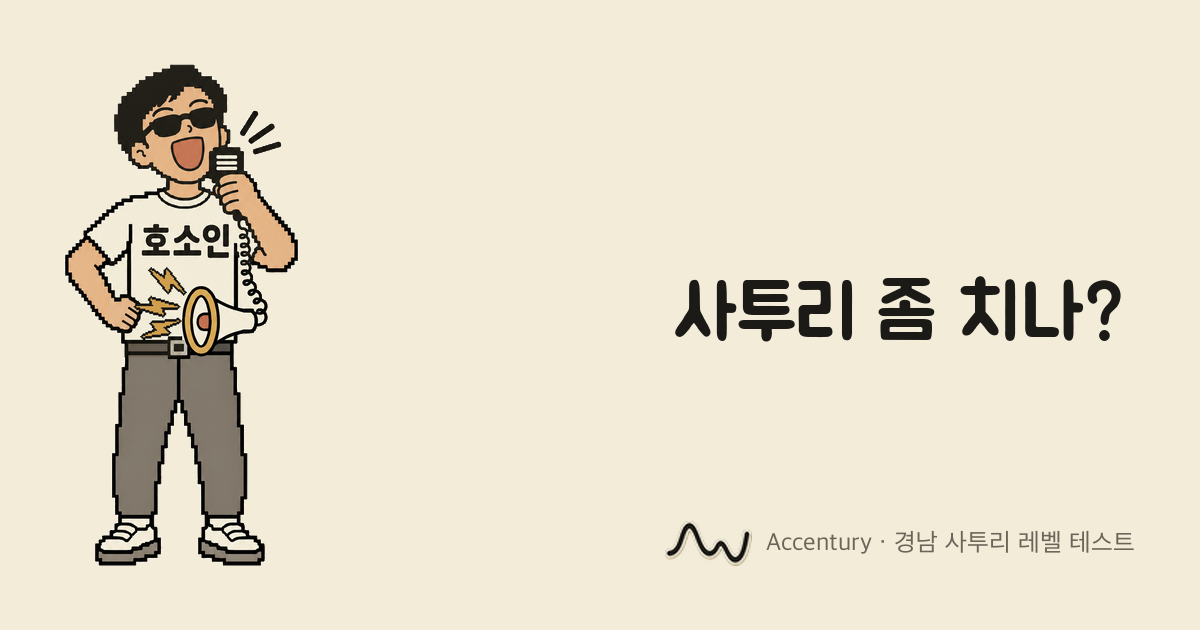
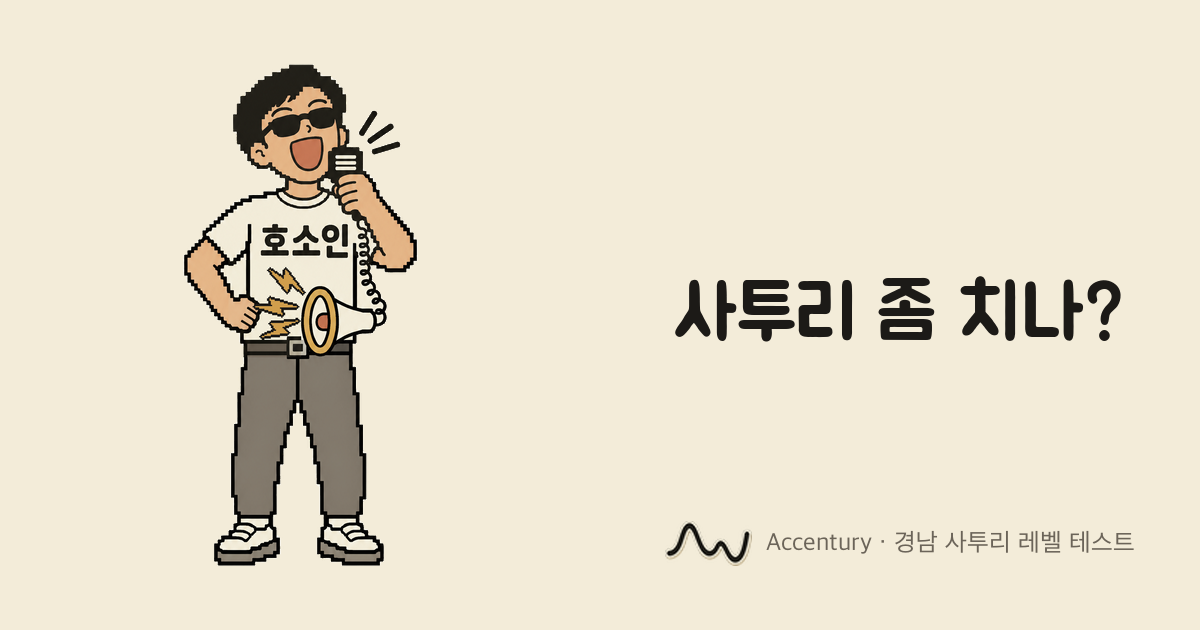
KAN-325 링크 미리보기 호소인을 왼쪽 절반 가운데로 정렬

Changed region(s): [[0.0308, 0.0905, 0.37, 0.9048]]

diff --git a/assets/web/build.py b/assets/web/build.py
@@ -177,7 +177,7 @@ def draw_og(cut: Image.Image) -> Image.Image:
 
     fig = cut.crop(cut.getbbox())
     fig = icon.fit(fig, OG_W * OG_FIGURE_W, OG_H - 2 * OG_PAD)
-    card.alpha_composite(fig, (OG_PAD, (OG_H - fig.height) // 2))
+    card.alpha_composite(fig, (OG_W // 4 - fig.width // 2, (OG_H - fig.height) // 2))  # 왼쪽 절반의 가운데
 
     draw = ImageDraw.Draw(card)
     axis = OG_W * 3 // 4  # 카드를 반으로 나눈 오른쪽 절반의 가운데
